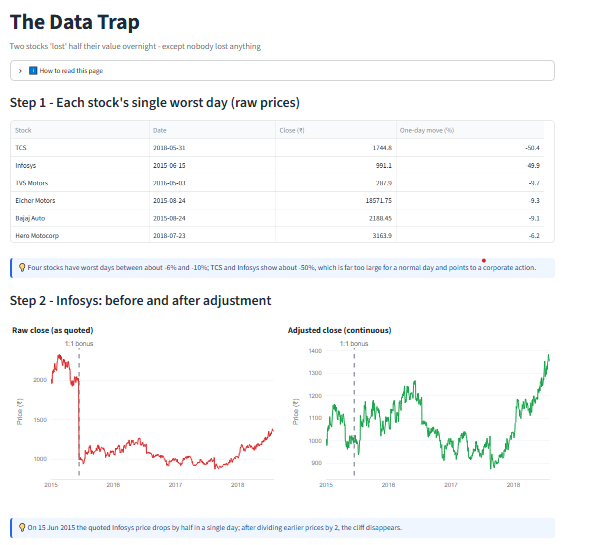
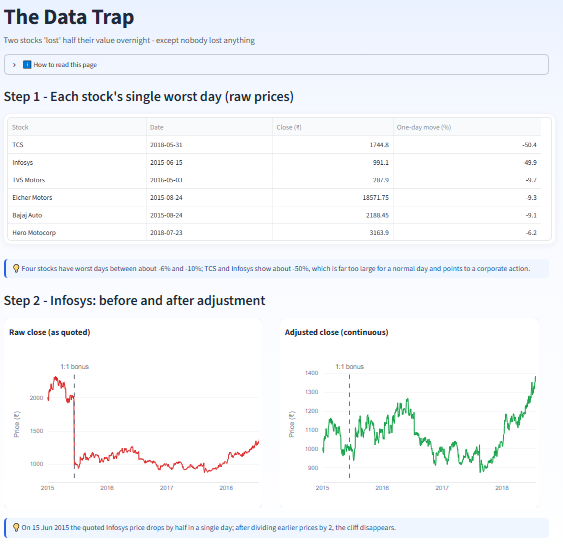
Update dashboard, screenshots and README

diff --git a/app/theme.py b/app/theme.py
@@ -1,4 +1,8 @@
 """Shared look-and-feel: colours, page setup, chart styling, text helpers."""
+import base64
+from functools import lru_cache
+from pathlib import Path
+
 import streamlit as st
 
 STOCKS = ["Bajaj Auto", "Eicher Motors", "Hero Motocorp", "Infosys", "TCS", "TVS Motors"]
@@ -13,19 +17,95 @@ GOOD, BAD, NEUTRAL = "#16a34a", "#dc2626", "#6b7280"
 
 _CSS = """
 <style>
-.block-container {padding-top: 1.4rem; padding-bottom: 2rem; max-width: 1250px;}
-h1 {font-weight: 750; letter-spacing: -0.5px;}
-div[data-testid="stMetric"] {background:#f9fafb; border:1px solid #e5e7eb; border-radius:12px;
-  padding:14px 18px; box-shadow:0 1px 2px rgba(0,0,0,.04);}
-div[data-testid="stMetricLabel"] p {font-size:0.85rem; color:#6b7280;}
-.takeaway {background:#eff6ff; border-left:4px solid #2563eb; padding:8px 14px; border-radius:6px;
-  color:#1e3a8a; font-size:0.93rem; margin:4px 0 18px 0;}
-.subtitle {color:#6b7280; font-size:1.05rem; margin-top:-8px; margin-bottom:14px;}
-.pill {display:inline-block; padding:2px 10px; border-radius:999px; font-size:0.8rem; font-weight:600;}
+.stApp {background: linear-gradient(180deg,#e8f0ff 0%,#f6f9ff 280px,#ffffff 100%);}
+.block-container {padding-top: 1.2rem; padding-bottom: 2rem; max-width: 1250px;}
+[data-testid="stHeader"] {background: transparent;}
+h1,h2,h3 {color:#0f2a5c; letter-spacing:-0.4px;} h1 {font-weight:800;}
+/* sidebar */
+[data-testid="stSidebar"] {background: linear-gradient(180deg,#0f2a5c 0%,#1e3a8a 100%);}
+[data-testid="stSidebar"] [data-testid="stSidebarNav"] a span, [data-testid="stSidebar"] label p,
+[data-testid="stSidebar"] .stMarkdown p, [data-testid="stSidebar"] h3, [data-testid="stSidebar"] .stCaption p {color:#e0e7ff !important;}
+[data-testid="stSidebar"] [data-testid="stSidebarNav"] a[aria-current="page"] {background:rgba(255,255,255,.16); border-radius:10px;}
+/* hero */
+.hero {background: linear-gradient(120deg,#0f2a5c 0%,#1d4ed8 60%,#38bdf8 130%); border-radius:20px; padding:26px 30px; color:#fff; box-shadow:0 10px 30px rgba(30,64,175,.25);}
+.hero h1 {color:#fff; margin:0; font-size:2.1rem; line-height:1.2;} .hero p {color:#dbeafe; margin:8px 0 14px 0; font-size:1.02rem;}
+.chip {display:inline-block; background:rgba(255,255,255,.16); border:1px solid rgba(255,255,255,.28); color:#fff; padding:3px 12px; border-radius:999px; font-size:.78rem; margin:0 6px 4px 0;}
+/* cards */
+.row {display:flex; flex-wrap:wrap; gap:14px; margin:16px 0;}
+.card {flex:1 1 190px; background:#fff; border-radius:16px; padding:16px 18px; box-shadow:0 2px 12px rgba(15,42,92,.08); border:1px solid #e6ecf7;}
+.kpi {flex:1 1 135px; padding:14px 14px; border-top:4px solid var(--c);} .kpi .top {display:flex; justify-content:space-between; align-items:center;}
+.kpi .l {color:#6b7280; font-size:.7rem; font-weight:600; text-transform:uppercase; letter-spacing:.2px; overflow-wrap:normal; word-break:normal; hyphens:none; font-kerning:none; font-feature-settings:"kern" 0;} .kpi .i {font-size:1.25rem; flex:0 0 auto; margin-left:6px;}
+.kpi .v {font-size:1.6rem; font-weight:800; color:#0f2a5c; line-height:1.25; margin-top:4px;} .kpi .s {color:#6b7280; font-size:.78rem;}
+.info {flex:1 1 280px;} .info h4 {margin:0 0 6px 0; color:#1e3a8a;} .info p {margin:0; color:#374151; font-size:.92rem; line-height:1.5;}
+.scard {flex:1 1 30%; min-width:240px;} .scard .hd {display:flex; align-items:center; gap:12px;} .scard .nm {font-weight:700; color:#0f2a5c;}
+.scard .pc {font-size:1.6rem; font-weight:800; margin:8px 0 2px 0;} .scard .ft {display:flex; justify-content:space-between; align-items:center; color:#6b7280; font-size:.78rem;} .scard .ft span {white-space:nowrap;}
+.badge {display:inline-flex; align-items:center; justify-content:center; border-radius:50%; color:#fff; font-weight:800; flex:0 0 auto;}
+.takeaway {background:#eff6ff; border-left:4px solid #2563eb; padding:8px 14px; border-radius:8px; color:#1e3a8a; font-size:.93rem; margin:4px 0 18px 0;}
+.subtitle {color:#4b5563; font-size:1.05rem; margin-top:-8px; margin-bottom:14px;}
+.pill {display:inline-block; padding:2px 10px; border-radius:999px; font-size:.8rem; font-weight:600;}
 .pill-buy {background:#dcfce7; color:#166534;} .pill-sell {background:#fee2e2; color:#991b1b;}
+[data-testid="stPlotlyChart"], [data-testid="stDataFrame"] {background:#fff; border-radius:14px; box-shadow:0 2px 12px rgba(15,42,92,.07); padding:6px;}
 footer {visibility:hidden;}
 </style>
 """
+
+TICKER = {"Bajaj Auto": "BAJ", "Eicher Motors": "EIC", "Hero Motocorp": "HER", "Infosys": "INF", "TCS": "TCS", "TVS Motors": "TVS"}
+_HERE = Path(__file__).resolve().parent
+_LOGO_DIRS = [_HERE.parent / "assets" / "logos", _HERE / "assets" / "logos"]   # project root or app/ folder
+
+
+@lru_cache(maxsize=None)
+def _logo_src(stock: str):
+    """Data-URI of your logo file (e.g. tcs.png; any letter case) from assets/logos, else None."""
+    slug = stock.lower().replace(" ", "_")
+    mimes = {".png": "image/png", ".jpg": "image/jpeg", ".jpeg": "image/jpeg", ".svg": "image/svg+xml"}
+    for d in _LOGO_DIRS:
+        if d.exists():
+            for f in sorted(d.iterdir()):
+                if f.name.lower().startswith(slug + ".") and f.suffix.lower() in mimes:
+                    return f"data:{mimes[f.suffix.lower()]};base64," + base64.b64encode(f.read_bytes()).decode()
+    return None
+
+
+def badge(stock: str, size: int = 42) -> str:
+    """Logo box from assets/logos if present (wide wordmarks fit), otherwise a coloured ticker badge."""
+    src = _logo_src(stock)
+    if src:
+        return (f'<img src="{src}" style="height:{size}px;width:{int(size * 1.9)}px;object-fit:contain;flex:0 0 auto;'
+                f'border-radius:10px;background:#fff;padding:4px;border:1px solid #e5e7eb">')
+    return (f'<span class="badge" style="width:{size}px;height:{size}px;background:{STOCK_COLORS[stock]};'
+            f'font-size:{size * 0.3:.0f}px">{TICKER[stock]}</span>')
+
+
+def kpi_row(items):
+    """items: (label, value, sub, icon, colour). Renders a responsive row of KPI cards."""
+    cards = "".join(
+        f'<div class="card kpi" style="--c:{c}"><div class="top"><span class="l">{l}</span><span class="i">{i}</span></div>'
+        f'<div class="v">{v}</div><div class="s">{s}</div></div>' for l, v, s, i, c in items)
+    st.markdown(f'<div class="row">{cards}</div>', unsafe_allow_html=True)
+
+
+def hero(title: str, subtitle: str, chips):
+    chips_html = "".join(f'<span class="chip">{c}</span>' for c in chips)
+    st.markdown(f'<div class="hero"><h1>{title}</h1><p>{subtitle}</p>{chips_html}</div>', unsafe_allow_html=True)
+
+
+def info_cards(items):
+    """items: (emoji + title, text)."""
+    html = "".join(f'<div class="card info"><h4>{t}</h4><p>{p}</p></div>' for t, p in items)
+    st.markdown(f'<div class="row">{html}</div>', unsafe_allow_html=True)
+
+
+def stock_cards(rows):
+    """rows: dicts with stock, change, sig, sig_date, buys, sells."""
+    html = ""
+    for r in rows:
+        col = GOOD if r["change"] >= 0 else BAD
+        html += (f'<div class="card scard"><div class="hd">{badge(r["stock"])}<div><div class="nm">{r["stock"]}</div>'
+                 f'<div class="s" style="color:#6b7280;font-size:.78rem">{r["buys"]} Buys · {r["sells"]} Sells</div></div></div>'
+                 f'<div class="pc" style="color:{col}">{pct(r["change"])}</div>'
+                 f'<div class="ft"><span>Total change</span><span>{signal_pill(r["sig"])} {r["sig_date"]}</span></div></div>')
+    st.markdown(f'<div class="row">{html}</div>', unsafe_allow_html=True)
 
 
 def setup(title: str, icon: str = "📈"):
@@ -37,8 +117,9 @@ def setup(title: str, icon: str = "📈"):
         st.caption("Six NSE stocks · Jan 2015 – Jul 2018 · MySQL on Aiven")
 
 
-def header(title: str, subtitle: str = ""):
-    st.title(title)
+def header(title: str, subtitle: str = "", stock: str = ""):
+    logo = f'<span style="margin-right:12px;vertical-align:middle">{badge(stock, 46)}</span>' if stock else ""
+    st.markdown(f'<h1 style="margin-bottom:0">{logo}{title}</h1>', unsafe_allow_html=True)
     if subtitle:
         st.markdown(f'<div class="subtitle">{subtitle}</div>', unsafe_allow_html=True)
 

diff --git a/app/Home.py b/app/Home.py
@@ -1,4 +1,3 @@
-import pandas as pd
 import plotly.graph_objects as go
 import streamlit as st
 
@@ -6,84 +5,56 @@ import db
 import theme
 
 theme.setup("Overview", "📈")
-theme.header("Do moving-average signals deserve our trust?",
-             "Golden-cross Buy/Sell signals on six NSE stocks, with a data-quality twist")
-
-prices = db.load_prices()
-summary = db.load_summary()
-events = db.load_events()
-latest = db.load_latest_signals()
+prices, summary = db.load_prices(), db.load_summary()
+events, latest = db.load_events(), db.load_latest_signals()
 if prices.empty or summary.empty:
     st.warning("The dashboard tables are empty. Run sql/06 and sql/07 on the database first.")
     st.stop()
 
-# ---- context: problem, objective, stakeholder ----
-c1, c2, c3 = st.columns(3)
-with c1:
-    st.markdown("#### 🎯 The problem")
-    st.write("Retail investors follow a *golden cross* (20-day average crossing the 50-day average) "
-             "without checking whether it is reliable or whether the price data is clean.")
-with c2:
-    st.markdown("#### 🧭 The objective")
-    st.write("Build the signals in SQL, measure how often they fire and how they compare with "
-             "simply holding, and check whether data problems distort the answer.")
-with c3:
-    st.markdown("#### 👤 Who decides")
-    st.write("A retail investor or junior analyst deciding whether to use this signal, "
-             "and on which stocks. Success = signals that survive a data check and a baseline.")
+theme.hero("Do moving-average signals deserve our trust?",
+           "Golden-cross Buy/Sell signals on six NSE stocks, with a data-quality twist",
+           ["6 NSE stocks", "889 trading days", "Jan 2015 – Jul 2018", "MySQL · Aiven · Streamlit"])
 
-st.divider()
-
-# ---- KPIs ----
-n_days = prices.groupby("stock").size().max()
+# ---- KPI cards ----
 buys, sells = int(summary["buys_adj"].sum()), int(summary["sells_adj"].sum())
-best = summary.sort_values("pct_change_adj", ascending=False).iloc[0]
-worst = summary.sort_values("pct_change_adj").iloc[0]
-k1, k2, k3, k4 = st.columns(4)
-k1.metric("Stocks", summary.shape[0], help="Bajaj, Eicher, Hero, Infosys, TCS, TVS")
-k2.metric("Trading days", f"{n_days:,}", help="2015-01-01 to 2018-07-31")
-k3.metric("Buy / Sell (adj.)", f"{buys} / {sells}",
-          help="Signals on prices adjusted for bonus issues. On raw prices the brief's total is 56 / 57.")
-k4.metric("Events fixed", len(events), help="Bonus issues that halved the quoted price")
-k5, k6 = st.columns(2)
-k5.metric(f"Best: {best['stock']}", theme.pct(best["pct_change_adj"]),
-          help="Best performer, first to last day, adjusted prices")
-k6.metric(f"Weakest: {worst['stock']}", theme.pct(worst["pct_change_adj"]),
-          help="Weakest performer, first to last day, adjusted prices")
+best, worst = summary.sort_values("pct_change_adj").iloc[-1], summary.sort_values("pct_change_adj").iloc[0]
+theme.kpi_row([
+    ("Stocks", summary.shape[0], "4 autos · 2 IT", "🏢", "#2563eb"),
+    ("Days of data", f"{prices.groupby('stock').size().max():,}", "per stock", "📅", "#0ea5e9"),
+    ("Buy / Sell (adj.)", f"{buys} / {sells}", "56 / 57 on raw prices", "🔁", "#8b5cf6"),
+    ("Events fixed", len(events), "bonus issues", "🛠", "#f59e0b"),
+    ("Best performer", theme.pct(best["pct_change_adj"]), f"{best['stock']} · adjusted", "🚀", theme.GOOD),
+    ("Weakest performer", theme.pct(worst["pct_change_adj"]), f"{worst['stock']} · adjusted", "🐢", theme.BAD)])
 
-# ---- rebased chart ----
+# ---- problem / objective / decision ----
+theme.info_cards([
+    ("🎯 The problem", "Retail investors follow a <i>golden cross</i> (20-day average crossing the 50-day average) "
+                       "without checking whether it is reliable or whether the price data is clean."),
+    ("🧭 The objective", "Build the signals in SQL, measure how often they fire and how they compare with simply "
+                         "holding, and check whether data problems distort the answer."),
+    ("👤 Who decides", "A retail investor or junior analyst deciding whether to use this signal, and on which "
+                       "stocks. Success = signals that survive a data check and a baseline.")])
+
+# ---- stocks at a glance ----
+st.subheader("Stocks at a glance")
+sig = latest.set_index("stock") if not latest.empty else None
+theme.stock_cards([dict(stock=r.stock, change=r.pct_change_adj, buys=int(r.buys_adj), sells=int(r.sells_adj),
+                        sig=sig.loc[r.stock, "signal"], sig_date=sig.loc[r.stock, "date"].strftime("%d %b %Y"))
+                   for r in summary.itertuples() if sig is not None and r.stock in sig.index])
+theme.takeaway("The latest signal is a snapshot of the crossing, not a forecast; read it with the long-run change "
+               "and the Price & Signals page before drawing any conclusion.")
+
+# ---- growth chart ----
 piv = prices.pivot(index="date", columns="stock", values="adj_close")
 rebased = piv / piv.iloc[0] * 100
-fig = go.Figure()
-for s in theme.STOCKS:
-    if s in rebased:
-        fig.add_trace(go.Scatter(x=rebased.index, y=rebased[s], name=s, mode="lines",
-                                 line=dict(color=theme.STOCK_COLORS[s], width=2)))
+fig = go.Figure([go.Scatter(x=rebased.index, y=rebased[s], name=s, mode="lines",
+                            line=dict(color=theme.STOCK_COLORS[s], width=2)) for s in theme.STOCKS if s in rebased])
 fig.add_hline(y=100, line_dash="dot", line_color="#9ca3af")
 theme.style_fig(fig, "How ₹100 invested on 1 Jan 2015 would have grown (prices adjusted for bonus issues)",
                 "Value of ₹100 invested", "")
 st.plotly_chart(fig, width="stretch")
-theme.takeaway(f"{best['stock']} grew the most and {worst['stock']} the least once TCS and Infosys are "
-               "adjusted for their bonus issues; without adjustment both would wrongly look like big losers.")
-
-# ---- latest signals ----
-st.subheader("Most recent signal per stock")
-if not latest.empty:
-    cols = st.columns(len(latest))
-    for col, (_, r) in zip(cols, latest.iterrows()):
-        with col:
-            st.markdown(f"**{r['stock']}**")
-            st.markdown(theme.signal_pill(r["signal"]), unsafe_allow_html=True)
-            st.caption(pd.Timestamp(r["date"]).strftime("%d %b %Y"))
-    theme.takeaway("The latest signal is a snapshot of the crossing, not a forecast; check the trend "
-                   "on the Price & Signals page before reading anything into it.")
-
-st.markdown("#### Where to go next")
-st.markdown("- **Price & Signals** – one stock, with Buy/Sell markers\n"
-            "- **Compare Stocks** – all six side by side\n"
-            "- **Data Trap** – the two price cliffs and how they were fixed\n"
-            "- **Strategy vs Buy-and-Hold** – did following the signals pay off?\n"
-            "- **SQL Playground** – run the project's queries yourself\n"
-            "- **Insights & Limits** – claims, evidence, caveats")
-st.caption("Data: NSE daily prices supplied with the course (source, licence and collection method "
-           "not stated in the files). Only closing prices are used. Not investment advice.")
+theme.takeaway(f"{best['stock']} grew the most and {worst['stock']} the least once TCS and Infosys are adjusted for "
+               "their bonus issues; without adjustment both would wrongly look like big losers.")
+st.caption("Data: NSE daily prices supplied with the course (source, licence and collection method not stated in "
+           "the files). Only closing prices are used. Logos are trademarks of their respective owners, shown for "
+           "identification only. Not investment advice.")

diff --git a/app/pages/1_Price_and_Signals.py b/app/pages/1_Price_and_Signals.py
@@ -6,18 +6,17 @@ import db
 import theme
 
 theme.setup("Price & Signals", "📊")
-theme.header("Price & Signals", "Close price, 20- and 50-day averages, and the golden-cross Buy/Sell days")
-theme.how_to_read(
-    "- **Grey line** = daily closing price. **Amber** = 20-day average, **blue** = 50-day average.\n"
-    "- **▲ Buy** is the single day the 20-day average crosses *above* the 50-day; **▼ Sell** the day it crosses *below*.\n"
-    "- Averages only exist after 20 / 50 trading days, so early 2015 has none.\n"
-    "- *Adjusted* prices remove the fake ~50% drop caused by bonus issues at TCS and Infosys.")
-
 with st.sidebar:
     stock = st.selectbox("Stock", theme.STOCKS, index=0)
     basis = st.radio("Price basis", ["Adjusted (recommended)", "Raw"], index=0)
     show_ma = st.checkbox("Show moving averages", value=True)
 
+theme.header(stock, "Close price, 20- and 50-day averages, and the golden-cross Buy/Sell days", stock=stock)
+theme.how_to_read(
+    "- **Grey line** = daily closing price. **Amber** = 20-day average, **blue** = 50-day average.\n"
+    "- **▲ Buy** is the single day the 20-day average crosses *above* the 50-day; **▼ Sell** the day it crosses *below*.\n"
+    "- Averages only exist after 20 / 50 trading days, so early 2015 has none.\n"
+    "- *Adjusted* prices remove the fake ~50% drop caused by bonus issues at TCS and Infosys.")
 df = db.load_signals(stock, adjusted=basis.startswith("Adjusted"))
 if df.empty:
     st.warning("No data returned.")
@@ -34,16 +33,13 @@ if df.empty:
 sig = df[df["signal"] != "Hold"]
 buys, sells = int((sig["signal"] == "Buy").sum()), int((sig["signal"] == "Sell").sum())
 chg = (df["price"].iloc[-1] / df["price"].iloc[0] - 1) * 100
-m1, m2, m3, m4 = st.columns(4)
-m1.metric("Change in range", theme.pct(chg))
-m2.metric("Buy signals", buys)
-m3.metric("Sell signals", sells)
-if len(sig):
-    last = sig.iloc[-1]
-    m4.metric("Latest signal", f"{last['signal']}", pd.Timestamp(last["date"]).strftime("%d %b %Y"),
-              delta_color="off")
-else:
-    m4.metric("Latest signal", "None")
+last = sig.iloc[-1] if len(sig) else None
+theme.kpi_row([
+    ("Change in range", theme.pct(chg), "first to last day shown", "📈", theme.GOOD if chg >= 0 else theme.BAD),
+    ("Buy signals", buys, "20-day crosses above 50-day", "🟢", theme.BUY),
+    ("Sell signals", sells, "20-day crosses below 50-day", "🔴", theme.SELL),
+    ("Latest signal", last["signal"] if last is not None else "None",
+     pd.Timestamp(last["date"]).strftime("%d %b %Y") if last is not None else "", "🔔", "#8b5cf6")])
 
 fig = go.Figure()
 fig.add_trace(go.Scatter(x=df["date"], y=df["price"], name="Close price",

diff --git a/app/pages/3_Data_Trap.py b/app/pages/3_Data_Trap.py
@@ -77,10 +77,9 @@ else:
     fake = int((m["Status"] != "Same on both").sum())
     changed = m[m["Status"] != "Same on both"].copy()
     changed["date"] = changed["date"].dt.strftime("%Y-%m-%d")
-    k1, k2, k3 = st.columns(3)
-    k1.metric("Signals on raw prices", len(r))
-    k2.metric("Signals on adjusted prices", len(a))
-    k3.metric("Signals that differ", fake)
+    theme.kpi_row([("Signals on raw prices", len(r), "as quoted", "📉", "#dc2626"),
+                   ("Signals on adjusted prices", len(a), "after the bonus fix", "📈", "#16a34a"),
+                   ("Signals that differ", fake, "created or hidden by the cliff", "⚠", "#f59e0b")])
     if fake:
         st.dataframe(changed.rename(columns={"date": "Date"}).fillna("-"), hide_index=True, width="stretch")
     theme.takeaway(f"{fake} of {stock}'s signals change depending on whether the bonus issue is adjusted: the "

diff --git a/app/assets/logos/README.md b/app/assets/logos/README.md
@@ -1,0 +1,11 @@
+# Optional company logos
+
+The dashboard shows a coloured ticker badge for each stock. To show real logos instead, save each
+logo here as a square-ish PNG (JPG or SVG also work) with exactly these file names:
+
+bajaj_auto.png · eicher_motors.png · hero_motocorp.png · infosys.png · tcs.png · tvs_motors.png
+
+Missing files simply fall back to the badge. Company logos are trademarks: use them only with
+permission or under the owner's brand-use terms, and credit the source.
+
+"Company logos are trademarks of their respective owners and are shown for identification only."
